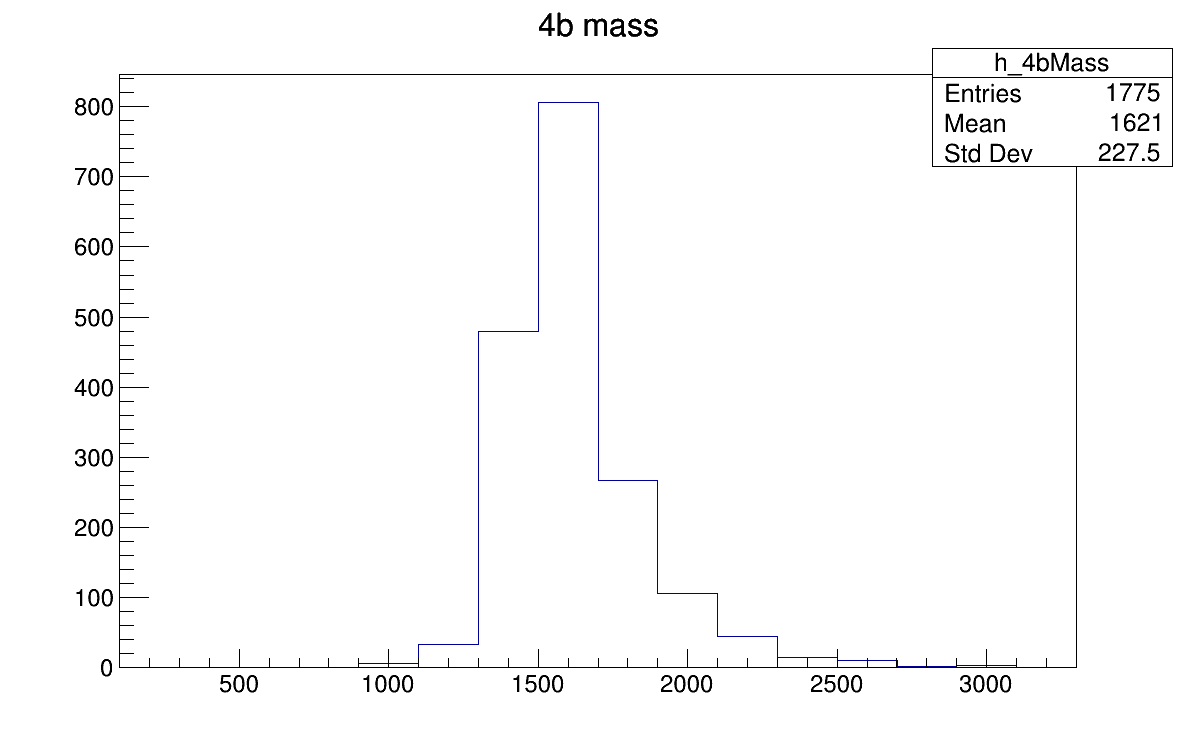
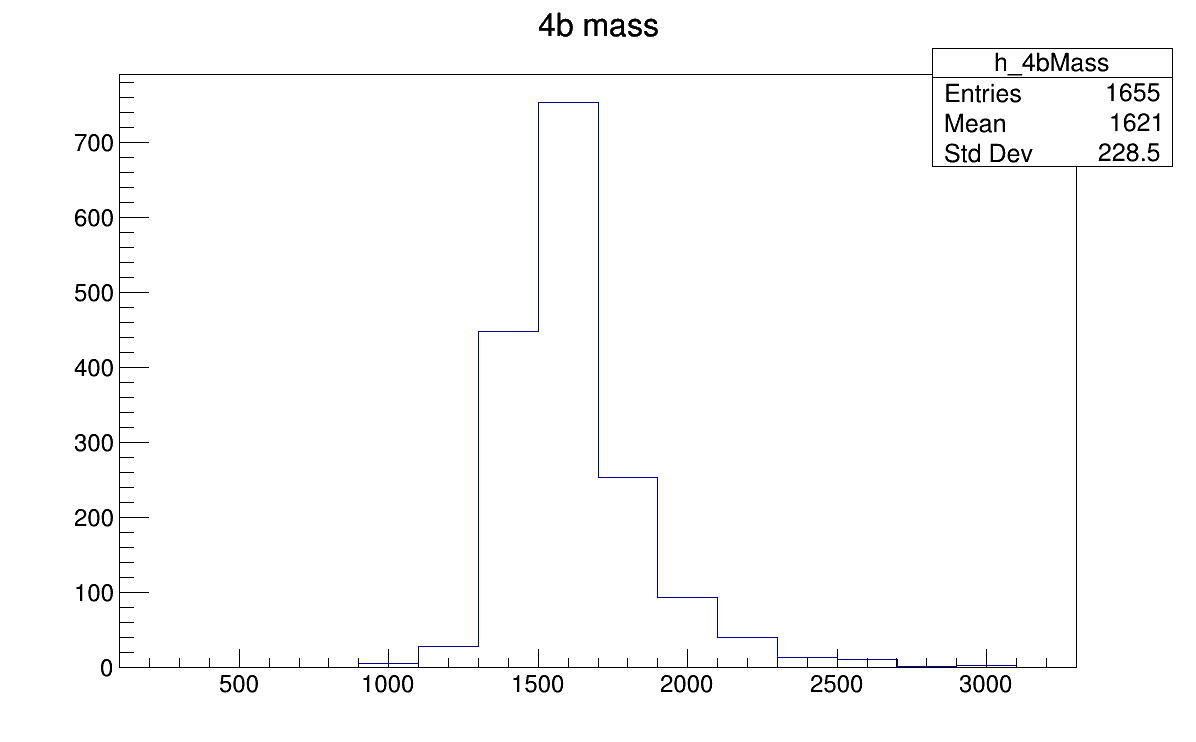
fix bug

diff --git a/boosted_xAna_BZ.C b/boosted_xAna_BZ.C
@@ -40,6 +40,8 @@ void boosted_xAna_BZ(std::string inputFile){
     TH1F* h_higgsJetM = new TH1F("h_higgsJetMass", "higgs jet Mass", 25,100,150);
     TH1F* h_4bJetM = new TH1F("h_4bMass", "4b mass", 16,100,3300);
     TH1F* h_HT = new TH1F("h_HT", "HT", 20,0,1500);
+    TH1F* h_nHiggsDa = new TH1F("h_nHiggsDa", "h_nHiggsDa", 5,-0.5,4.5);
+    TH1F* h_nZp = new TH1F("h_nZp", "h_nZp", 5,-0.5,4.5);
 
     Int_t nPass[20]={0};
     int Hindex[2]={-1,-1};
@@ -159,22 +161,25 @@ void boosted_xAna_BZ(std::string inputFile){
         Int_t *genParSt = data.GetPtrInt("genParSt");
         Int_t nPar = data.GetInt("nGenPar");
         Int_t zpIndex[2] = {-1,-1}, higgsIndex[2] = {-1,-1};
-        Int_t nZpmo = 0, nHiggsmo = 0;
+        Int_t nZpDa = 0, nHiggsDa = 0;
         for (int ij=0;ij<30;ij++) {
             if (genParSt[ij] != 23) continue;
+            TLorentzVector *thisJet = (TLorentzVector*)genParP4->At(ij);
+            //if (thisJet->Pt() < 300) continue;
+            if (thisJet->Eta() > 2.4) continue;
             if (genMomParId[ij]==9000001) {
-                nZpmo += 1;
+                nZpDa += 1;
                 if (zpIndex[0] < 0) zpIndex[0] = ij;
                 else if (zpIndex[1] < 0) zpIndex[1] = ij;
             }
             if (genMomParId[ij]==25) {
-                nHiggsmo += 1;
+                nHiggsDa += 1;
                 if (higgsIndex[0] < 0) higgsIndex[0] = ij;
                 else if (higgsIndex[1] < 1) higgsIndex[1] = ij;
             }
-            if (higgsIndex[1] > 0 && zpIndex[1] > 0) break;
+            //if (higgsIndex[1] > 0 && zpIndex[1] > 0) break;
         }
-        if (nZpmo < 2 || nHiggsmo < 2) continue;
+        if (nZpDa < 2 || nHiggsDa < 2) continue;
         
         TLorentzVector* zpJetDa1 = (TLorentzVector*)genParP4->At(zpIndex[0]);
         TLorentzVector* zpJetDa2 = (TLorentzVector*)genParP4->At(zpIndex[1]);
@@ -239,6 +244,8 @@ void boosted_xAna_BZ(std::string inputFile){
         h_ZpPt->Fill(zpJetPt);
         h_ZpEta->Fill(zpJetEta);
         h_4bJetM->Fill(b4Mass);
+        h_nHiggsDa->Fill(nHiggsDa);
+        h_nZp->Fill(nZpDa);
         //h_diJetM->Fill(redMass2Jet); 
     
     } // end of loop over entries
@@ -259,6 +266,7 @@ void boosted_xAna_BZ(std::string inputFile){
     }
     file.close();
     */
+    c1->Clear();
     h_higgsPt->Draw("hist");
     c1->SaveAs("higgsPt.png");
     h_higgsEta->Draw("hist");
@@ -273,6 +281,10 @@ void boosted_xAna_BZ(std::string inputFile){
     c1->SaveAs("ZpJetM.png");
     h_4bJetM->Draw("hist");
     c1->SaveAs("4bMass.png");
+    h_nZp->Draw("hist");
+    c1->SaveAs("nZpDa.png");
+    h_nHiggsDa->Draw("hist");
+    c1->SaveAs("nHiggsDa.png");
     //h_HT->Draw("hist");
     //c1->SaveAs("HT.png");
     
